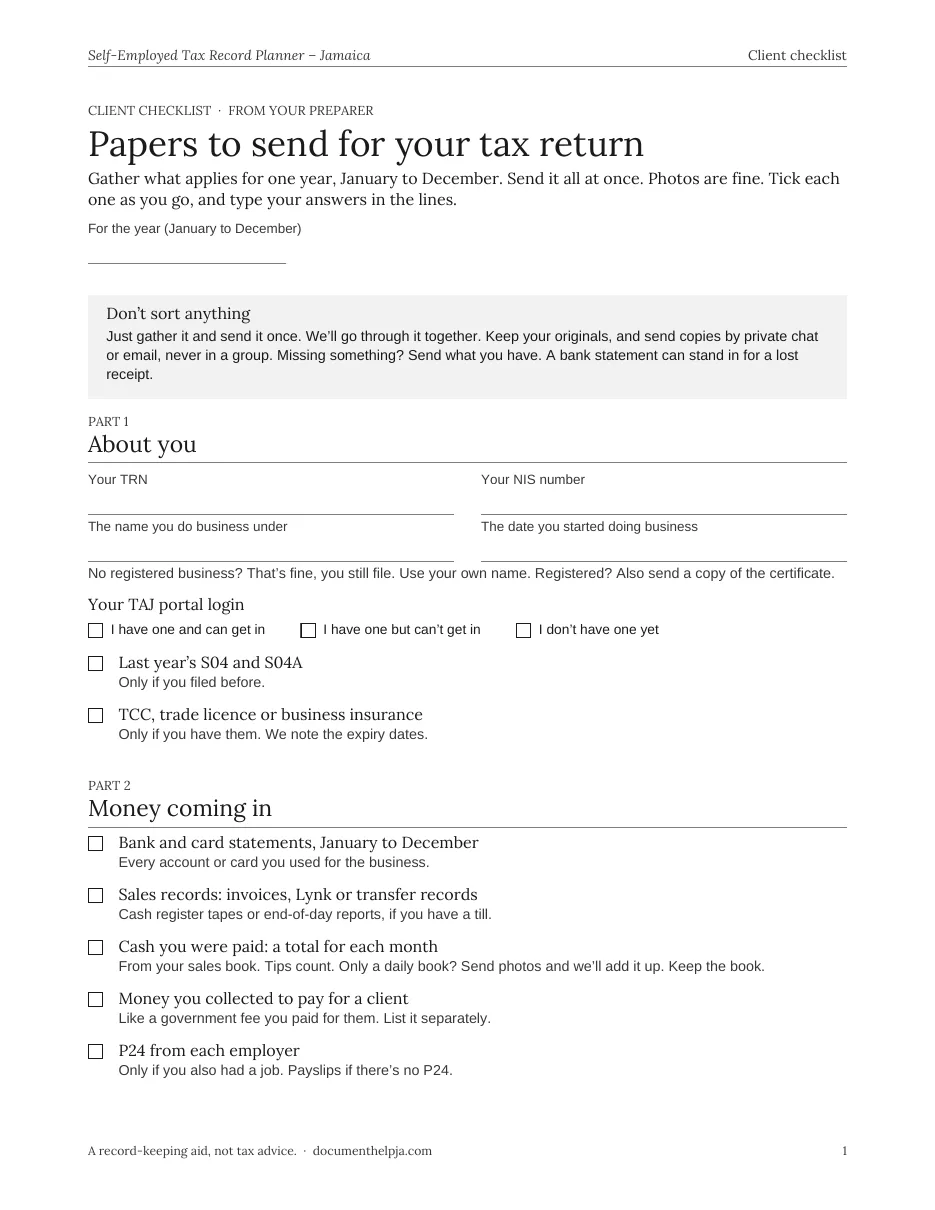
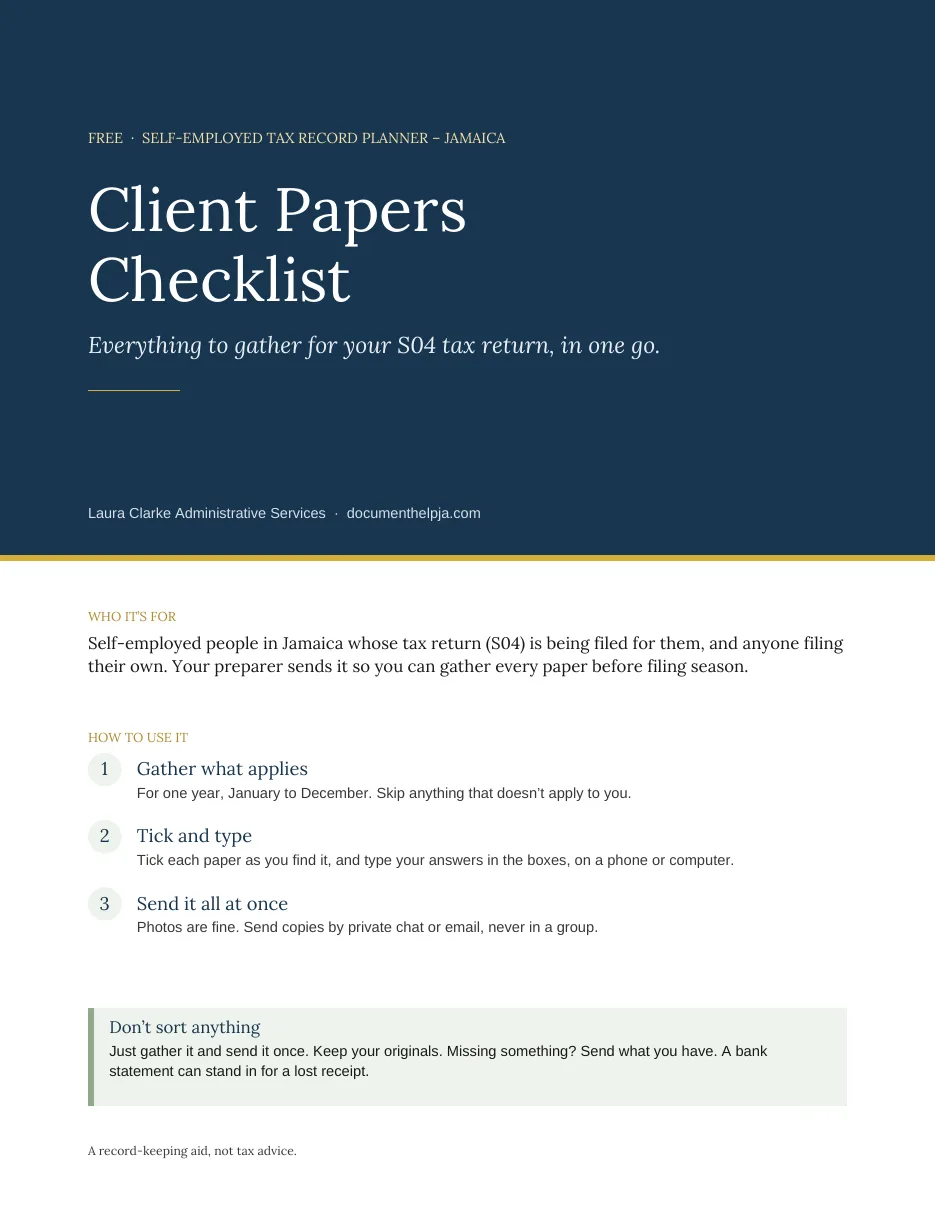
Colour checklist cover image; wording no longer says two-page; homepage Bookstore section
Claude-Session: https://claude.ai/code/session_019XziezihfLMvf6sQ8qUtKF

diff --git a/self-employed-s04-tax-tools.html b/self-employed-s04-tax-tools.html
@@ -234,7 +234,7 @@ h1,h2{font-family:var(--serif);font-weight:600;color:var(--navy);text-wrap:balan
     <p class="price">J$2,000</p>
     <a class="btn gold" href="/s04-tax-record-planner">View details</a>
   </div>
-</article> <article class="card t wide"> <a class="cover" href="/checklist" tabindex="-1" aria-hidden="true"><img src="assets/s04-client-papers-checklist-cover.webp" width="935" height="1210" loading="lazy" decoding="async" alt=""></a> <div class="body"> <p class="kick">Free · For preparers and their clients</p> <h2>Papers to send for your tax return</h2> <p>A two-page checklist of everything to gather for the S04, so it all comes in one go. Type in your TRN, NIS and business details, and tick the boxes, on your phone or computer. Download it and share it with as many clients as you like.</p> <p class="price">Free</p> <a class="btn" href="/checklist">Get it free</a> </div> </article>
+</article> <article class="card t wide"> <a class="cover" href="/checklist" tabindex="-1" aria-hidden="true"><img src="assets/s04-client-papers-checklist-cover.webp" width="935" height="1210" loading="lazy" decoding="async" alt=""></a> <div class="body"> <p class="kick">Free · For preparers and their clients</p> <h2>Papers to send for your tax return</h2> <p>A free checklist of everything to gather for the S04, so it all comes in one go. Type in your TRN, NIS and business details, and tick the boxes, on your phone or computer. Download it and share it with as many clients as you like.</p> <p class="price">Free</p> <a class="btn" href="/checklist">Get it free</a> </div> </article>
   </div>
   <div class="wrap soonrow" aria-label="Coming soon in the series">
     <aside class="soon"><div><p class="tag">Book 2 · Coming soon</p><h2>Filing your S04 on the TAJ portal</h2><p>Follow the portal screens as you file, using the figures from your Planner.</p></div></aside>

diff --git a/s04-tax-record-planner.html b/s04-tax-record-planner.html
@@ -314,7 +314,7 @@ h1,h2,h3,.hook{font-variant-numeric:lining-nums}
         <li>Income month by month, including tips and cash</li>
         <li>Pages for cash with no receipt, and a business-share worksheet</li>
         <li>Year-end summary and next year’s S04A estimate</li>
-        <li>A two-page papers checklist to send your clients (<a href="/checklist">get it free</a>)</li>
+        <li>A free papers checklist to send your clients (<a href="/checklist">get it free</a>)</li>
         <li>Type straight into it on your computer. No printer needed.</li>
       </ul></div>
       <div class="inside honest"><h2>What it won’t do</h2><ul>
